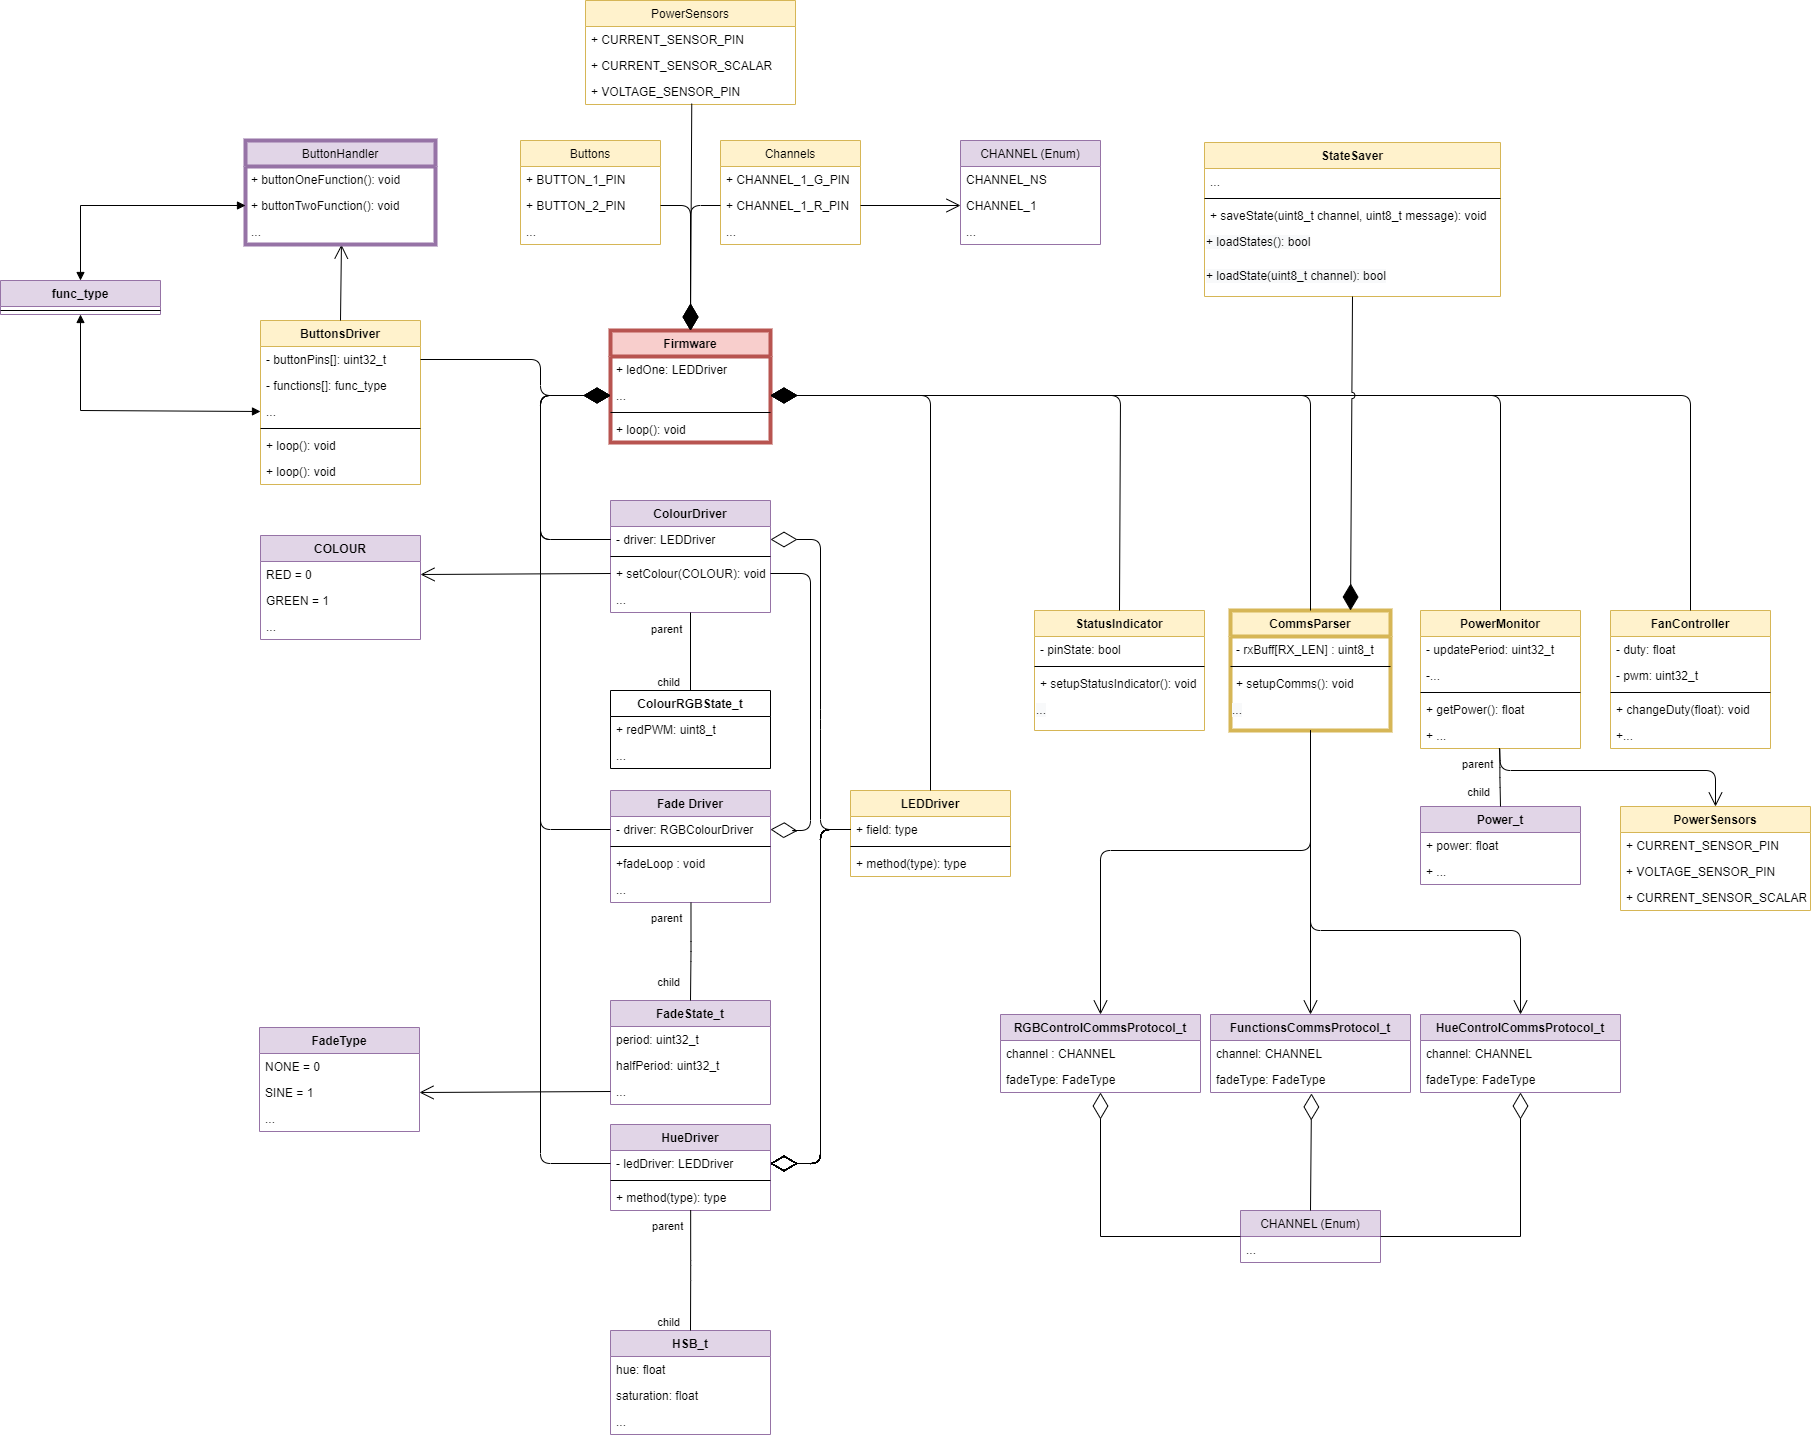
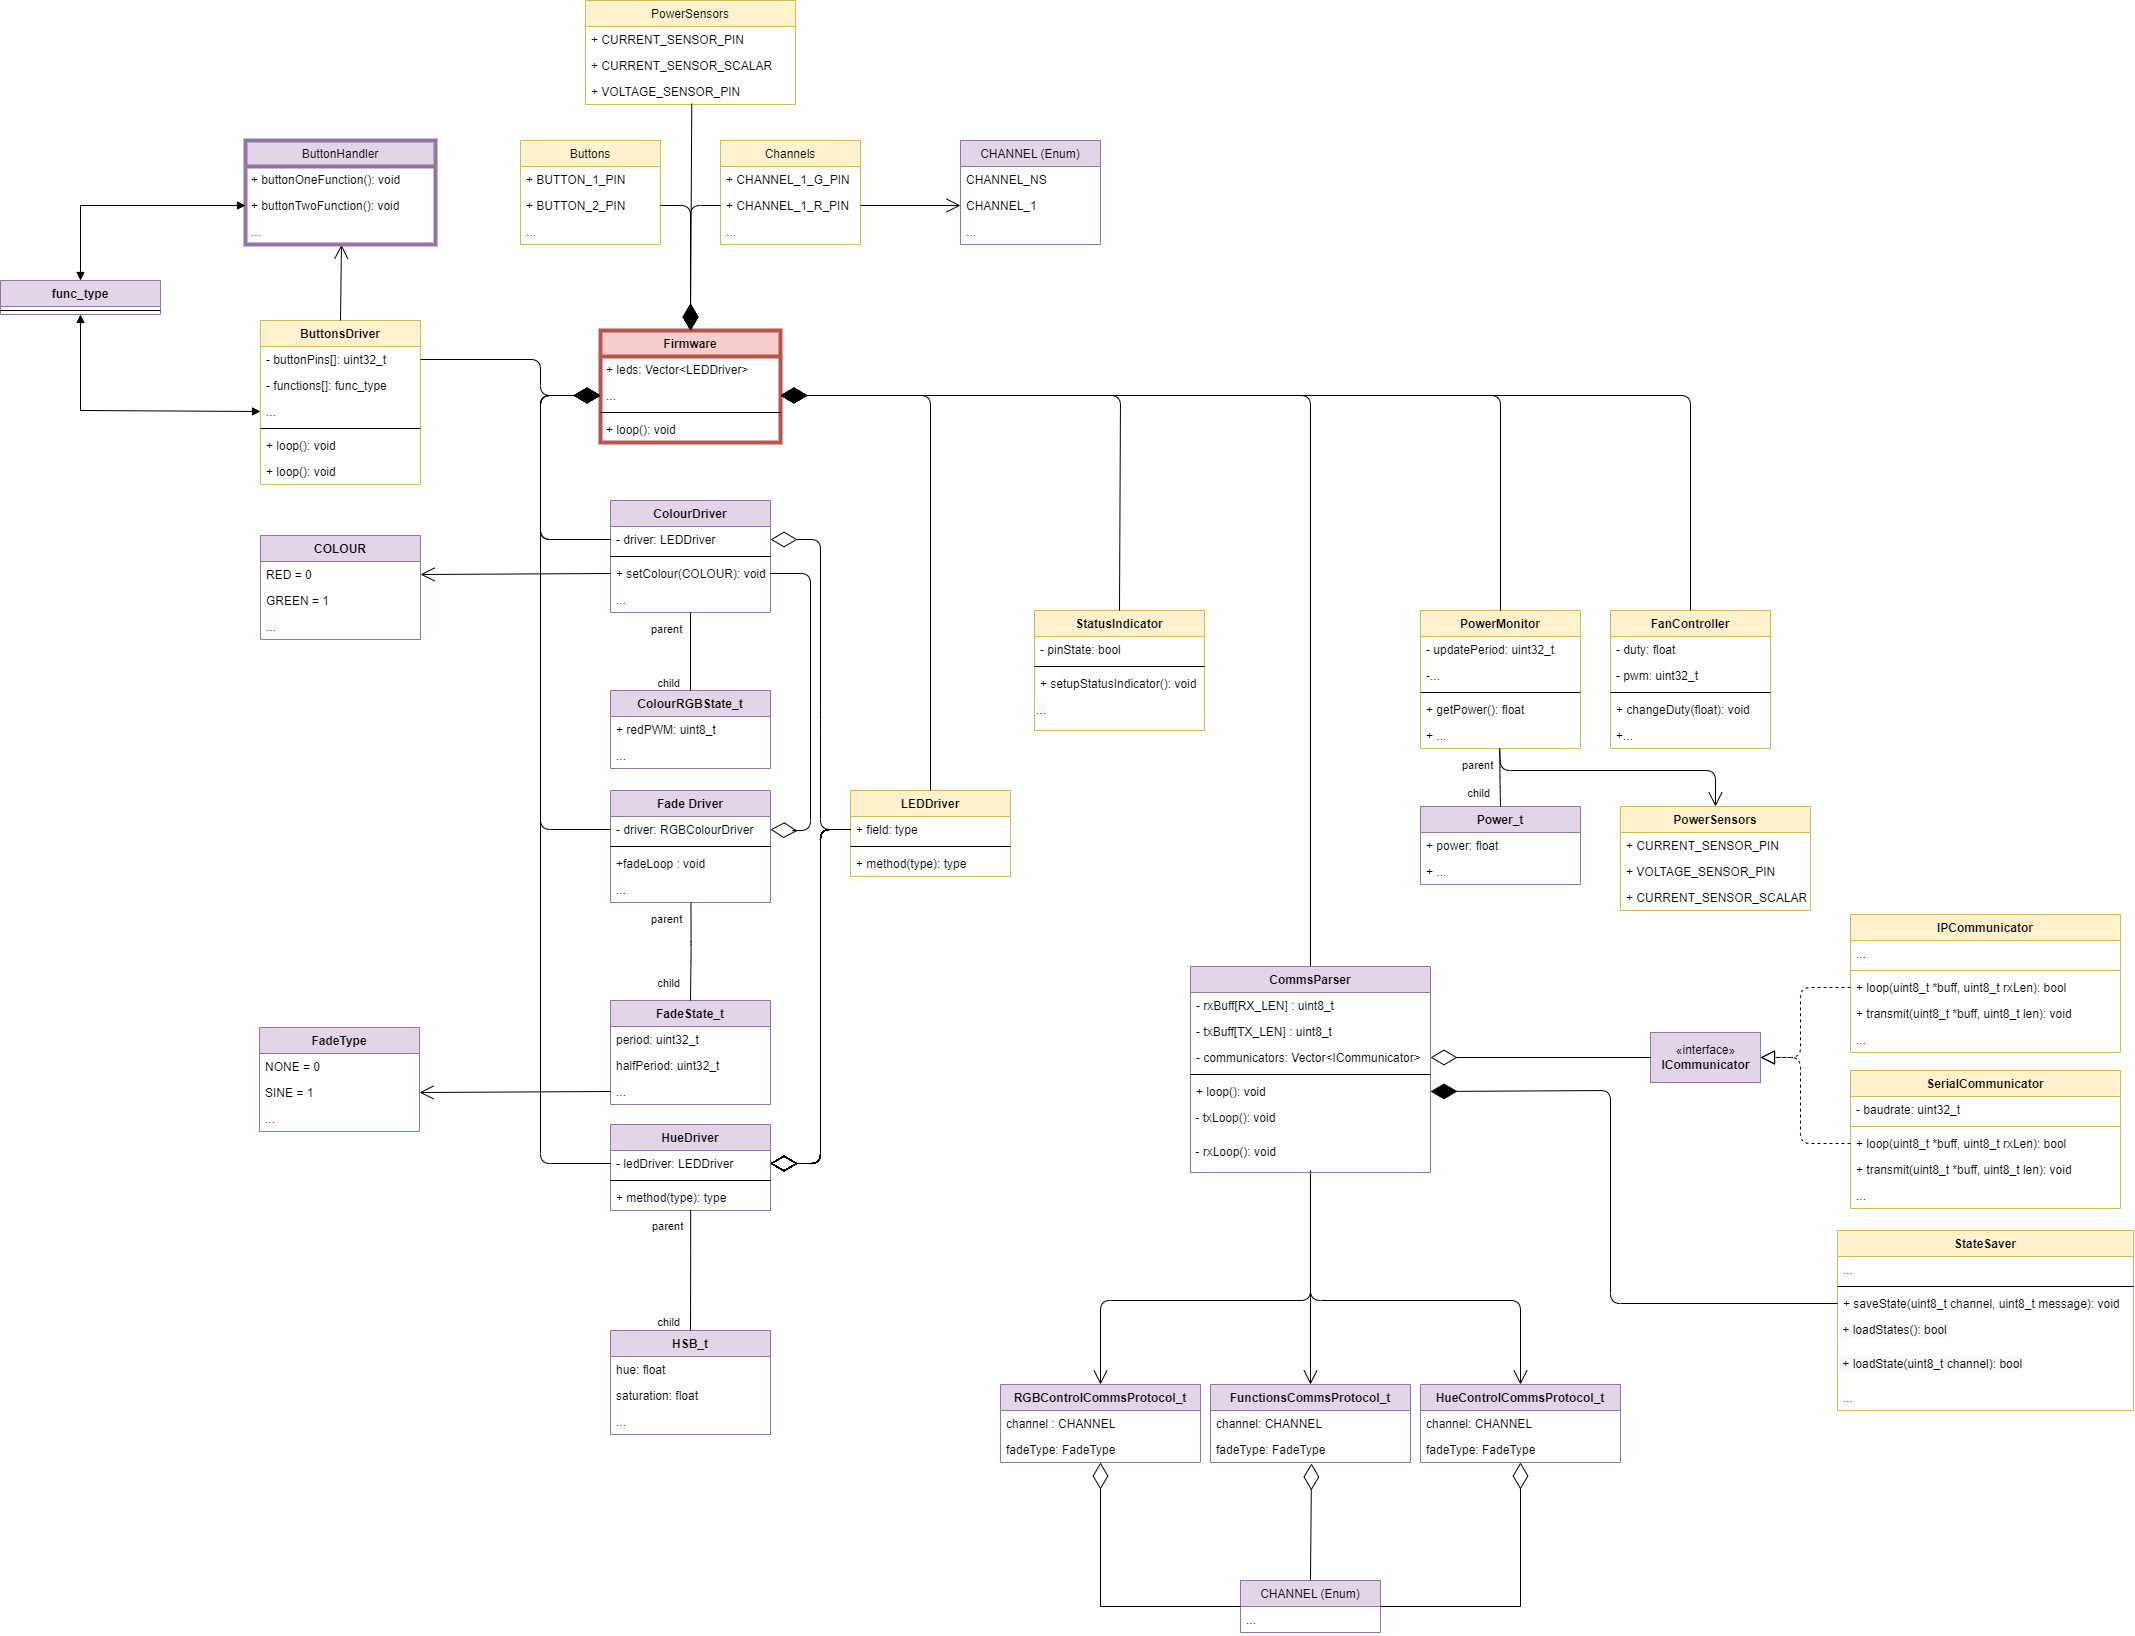
updating code and documentation. Still Some bugs with the hue conversion that needs fixed. As well as the StateSaver needs implemented, which will fix the button functionalities. Also need to implement Feedback for NodeRed. In order to get the brightness and colour requests to fully work

diff --git a/Firmware/CommsParser.h b/Firmware/CommsParser.h
@@ -18,12 +18,31 @@
 #include "CommsStructures.h"
 #include "ICommunicator.h"
 
+/**
+ * @brief CommsParser class concerned with byte level parsing and updating the corresponding drivers
+ * 
+ */
 class CommsParser
 {
 public:
+    /**
+     * @brief Construct a new Comms Parser object
+     * 
+     * @param comms a vector containing the corresponding communicator objects
+     * @param ledTxRate //the rate in ms in which led update messages will be sent
+     * @param pwrTxRate //the rate in ms in which pwr update messages will be sent
+     */
     CommsParser(vector<ICommunicator*> comms, uint32_t ledTxRate, uint32_t pwrTxRate);
+    /**
+     * @brief Destroy the Comms Parser object
+     * 
+     */
     ~CommsParser();
-    void loop();
+    /**
+     * @brief Soft Timed loop for comm parsing
+     * 
+     */
+    void loop(void);
 
 private:
     vector<ICommunicator*> comms;
@@ -44,10 +63,26 @@ private:
     const uint32_t PWR_TX_UPDATE_PERIOD;
     uint32_t lastPwrUpdate;
 
-
+    /**
+     * @brief Selects the driver that will be updated
+     * 
+     * @param channel the channel to be chosen
+     */
     void selectDrivers(enum CHANNEL channel);
+    /**
+     * @brief Parses the incoming message and updates the corresponding drivers
+     * 
+     */
     void parseAndUpdate(void);
+    /**
+     * @brief Soft timed method that will send out periodic updates of what the LEDs are currently doing
+     * 
+     */
     void sendLEDUpdate(void);
+    /**
+     * @brief Parses the buffer message concerning the led
+     * 
+     */
     void ledChangeCommand(void);
 };
 

diff --git a/Firmware/ICommunicator.h b/Firmware/ICommunicator.h
@@ -1,12 +1,29 @@
 #ifndef ICOMMUNICATOR_H
 #define ICOMMUNICATOR_H
-
+//Library Includes
 #include <stdint.h>
-
+/**
+ * @brief Interface defining low level communicators
+ * 
+ */
 class ICommunicator{
 
     public:
+    /**
+     * @brief soft polling loop in which a buffer is updated along with the amount of bytes to wait for
+     * 
+     * @param buff the buffer containing the command packet
+     * @param len the length of the expected command packet
+     * @return true if message was available
+     * @return false if no message was available
+     */
     virtual bool loop(uint8_t* buff, uint8_t len) =0;
+    /**
+     * @brief Transmits the selected message stored in buff
+     * 
+     * @param buff the tx buffer
+     * @param len the length of the message
+     */
     virtual void transmit(uint8_t *buff, uint8_t len) =0;
 };
 

diff --git a/Firmware/SerialCommunicator.cpp b/Firmware/SerialCommunicator.cpp
@@ -4,24 +4,26 @@
 #include <stdint.h>
 #include <Arduino.h>
 
+#define SERIAL Serial //USB Serial Selected
+
 //Project Includes
 SerialCommunicator::SerialCommunicator(uint32_t baudrate): BAUDRATE(baudrate)
 {
-    Serial.begin(BAUDRATE);
+    SERIAL.begin(BAUDRATE);
 }
 SerialCommunicator::~SerialCommunicator()
 {
 }
 bool SerialCommunicator:: loop(uint8_t *buff, uint8_t len)
 {
-    if(Serial.available()){
+    if(SERIAL.available()){
          
-        Serial.readBytes((char*)buff,len);
+        SERIAL.readBytes((char*)buff,len);
         return true;
     }
     return false;
 }
 void SerialCommunicator:: transmit(uint8_t *buff, uint8_t len)
 {
-    Serial.write(buff, len);
+    SERIAL.write(buff, len);
 }

diff --git a/Firmware/SerialCommunicator.h b/Firmware/SerialCommunicator.h
@@ -9,10 +9,24 @@
 
 #include "ICommunicator.h"
 
+/**
+ * @brief SerialCommunicator Low level class concerned with interacting with the UART hardware and transmitting bytes
+ * 
+ */
 class SerialCommunicator: public ICommunicator{
     public:
+    /**
+     * @brief Construct a new Serial Communicator object
+     * 
+     * @param BAUDRATE the selected baudrate
+     */
     SerialCommunicator(uint32_t BAUDRATE);
+    /**
+     * @brief Destroy the Serial Communicator object
+     * 
+     */
     ~SerialCommunicator();
+    
     bool loop(uint8_t* buff, uint8_t len);
     void transmit(uint8_t *buff, uint8_t len);
     private:

diff --git a/Firmware/CommsParser.cpp b/Firmware/CommsParser.cpp
@@ -132,7 +132,7 @@ void CommsParser::ledChangeCommand(void) {
   }
 }
 /**
- * @brief sends out an update regarding the system
+ * @brief sends out an update regarding the LED system
  * | UPDATE ID | Arguments |
  * | UPDATE ID |  NUM LEDS | LED NUM |  RED  | GREEN | BLUE | XXXX
  *

diff --git a/Firmware/ReadMe.md b/Firmware/ReadMe.md
@@ -43,7 +43,13 @@ Finally the last Driver to be discussed is the HueDriver, this is due to the nee
 Due to the ongoing switching and power regulation a fan was added to the design, As for controlling this fan it was decided that PWM control of the fan would be ideal so that it wasn't constantly on.
 
 ## CommsParser
-The CommsParser file is responsible for decoding incoming messages and performing the corresponding actions. This means that this file is usually in control of the system as it responds to incoming requests from the user via a USB Serial channel. This file is not object orientated at present. It also contains a StateSaver Object which is used to store the most recent commands sent to the device.
+The CommsParser class is responsible for decoding incoming messages and performing the corresponding actions. This means that this file is usually in control of the system as it responds to incoming requests from the user via a range of possible communicators. The class queries every communicator for their command messages.
+
+## ICommunicator
+The ICommunicator class is a pure virtual class which contains both a receive and transmit method that will be implemented in the corresponding concrete classes.
+
+### SerialCommunicator
+One of the concrete communicator classes is the SerialCommunicator class which does both the transmitting and receiving on UART USB Serial. This can be changed using the #define SERIAL in the class cpp file.
 
 ## StateSaver
 The StateSaver object is used to store the most recent commands sent to to the hardware, this is done so that they can be reloaded at the next boot sequence allowing the system to store its previous state. //todo Finish implementing this code
